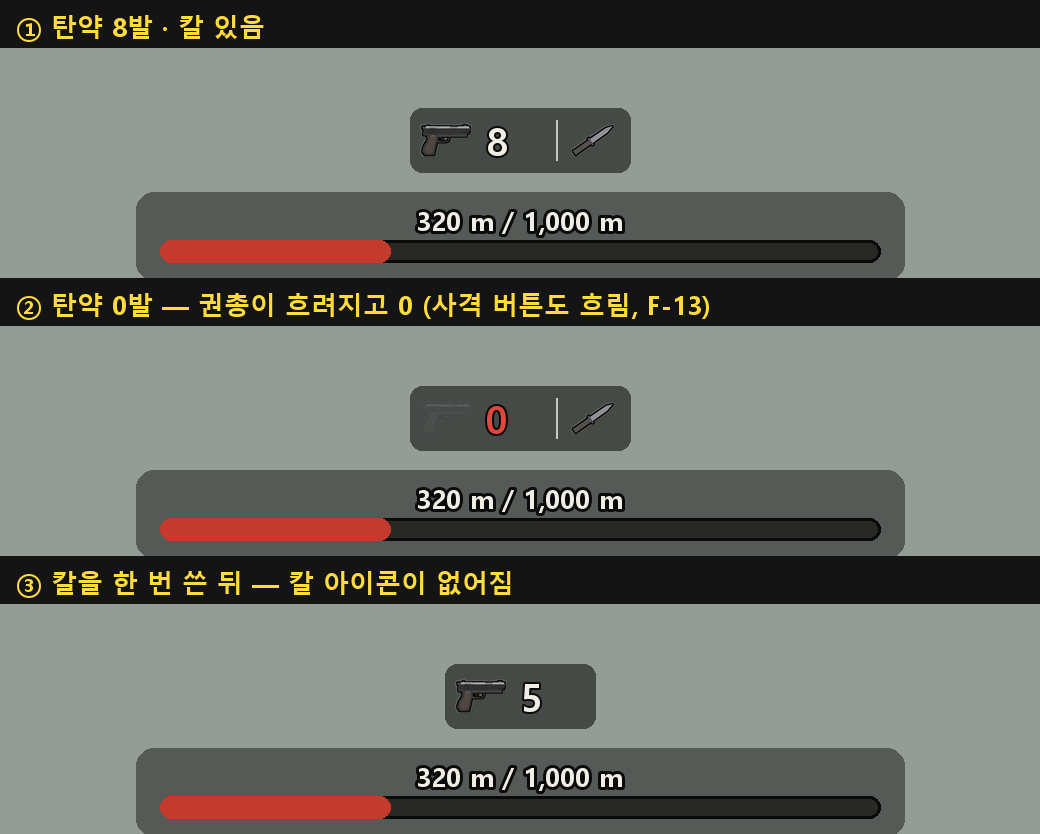
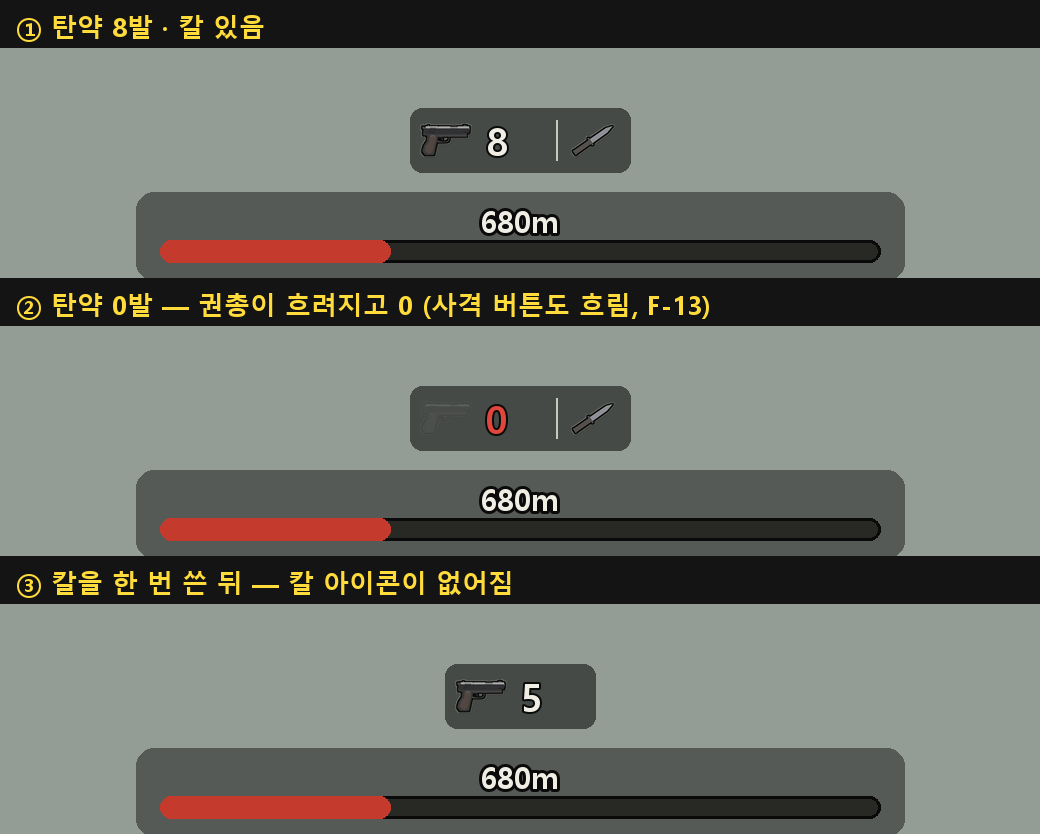
feat: HUD 시안의 거리 표기를 남은 거리(680m)로 — PRD v0.5 F-54 에 맞춤
- 팀 PRD v0.5 F-54 "남은 거리(1,000m → 0m)와 진행 막대" 로 바뀌어 "320 m / 1,000 m" 를 "680m" 로 고쳤다
- 막대는 달린 만큼(32%) 채움 그대로
- 시안 배경 좀비도 main 의 금속 값 0 재질로 다시 찍혔다

Changed region(s): [[0.4, 0.9041, 0.6154, 0.9664], [0.4, 0.5612, 0.6154, 0.6235], [0.4, 0.2494, 0.6154, 0.2806]]

diff --git a/art/ui/make_hud_mock.py b/art/ui/make_hud_mock.py
@@ -78,12 +78,13 @@ def text(d, xy, s, size, fill=(240, 238, 228), bold=True, anchor="la", stroke=3)
 
 
 def progress_bar(img, d, cx, y, width=720):
-    """진행 막대 (PRD F-54, B 의 WU-15 가 값 제공) — 320m / 1,000m 예시."""
+    """남은 거리와 진행 막대 (PRD F-54 "남은 거리(1,000m → 0m)와 진행 막대", B 의 WU-15 가 값 제공).
+    예시: 320m 달림 → 남은 거리 680m, 막대는 달린 만큼(32%) 채움."""
     x0, x1 = cx - width // 2, cx + width // 2
     panel(img, (x0 - 24, y - 26, x1 + 24, y + 62), alpha=120)
     d.rounded_rectangle((x0, y + 22, x1, y + 44), 11, fill=(40, 40, 36), outline=(10, 10, 10), width=3)
     d.rounded_rectangle((x0, y + 22, x0 + int(width * 0.32), y + 44), 11, fill=(196, 58, 44))
-    text(d, (cx, y + 2), "320 m / 1,000 m", 26, anchor="mm")
+    text(d, (cx, y + 2), "680m", 30, anchor="mm")
 
 
 def weapon_group(img, d, cx, y, ammo, knife):
@@ -129,7 +130,7 @@ def screen(ammo, knife):
     img = background()
     d = ImageDraw.Draw(img, "RGBA")
     weapon_group(img, d, W // 2, SAFE, ammo, knife)          # 최상단 중앙 (F-78)
-    progress_bar(img, d, W // 2, SAFE + 110)                   # 그 아래 진행 막대 (F-54 "화면 상단")
+    progress_bar(img, d, W // 2, SAFE + 110)                   # 그 아래 남은 거리·진행 막대 (F-54)
     pause_button(img, d)
     fire_button(img, d, ammo)
     return img

diff --git a/art/ui/README.md b/art/ui/README.md
@@ -37,7 +37,7 @@ Godot: 가져오기 설정은 기본값(Lossless), `TextureRect` 의 `expand_mod
 
 | 파일 | 내용 |
 |---|---|
-| `hud_mock_full.png` | 게임 화면 전체: 최상단 중앙 무기 표시 → 그 아래 진행 막대(F-54) / 오른쪽 위 일시정지 / 오른쪽 아래 사격 버튼(F-11) |
+| `hud_mock_full.png` | 게임 화면 전체: 최상단 중앙 무기 표시 → 그 아래 남은 거리 `680m`·진행 막대(F-54, PRD v0.5 "남은 거리(1,000m → 0m)") / 오른쪽 위 일시정지 / 오른쪽 아래 사격 버튼(F-11) |
 | `hud_mock_states.png` | 무기 표시 세 상태: ① 8발·칼 있음 ② 0발 ③ 칼 사용 뒤 |
 
 배경 좀비는 A 의 좀비 모델을 찍은 것이고, 길·안개는 대충 그린 것이다.
